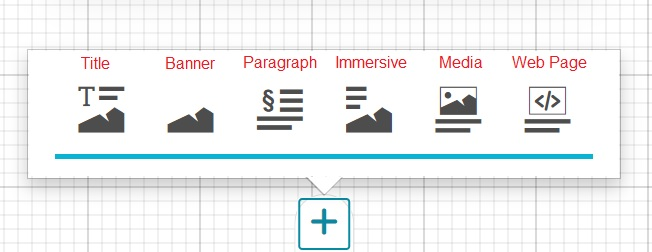
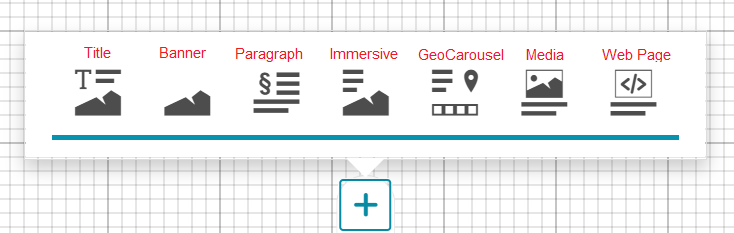
geocarousel-section

diff --git a/docs/user-guide/geocarousel-section.md b/docs/user-guide/geocarousel-section.md
@@ -1,0 +1,76 @@
+# GeoCarousel Section
+**********************
+
+The GeoCarousel section is similar to the [Immersive Section](immersive-section.md) and allows the story editor to define a list of cards to be presented with an accompanying descriptive content and a geographic location. Therefore, it is composed of three elements: the background  map, the media content and the carousel: a list of cards.
+
+<img src="../img/geocarousel-section/geocarousel-section-fd.jpg" class="ms-docimage"/>
+
+## Background
+
+Inside a GeoCarousel section the story editor can customize the background area through the background editing toolbar:
+
+<img src="../img/immersive-section/bck-toolbar.jpg" class="ms-docimage" width="550px"/>
+
+The background editing toolbar, when no map is applied, allows to:
+
+* Add a map as a background of the section, with the **Change media source** button <img src="../img/button/change-media.jpg" class="ms-docbutton"/> that opens the [Media Editor](media-editor-window.md)
+
+!!! warning
+    
+    In the *GeoCarousel Section* the story editor, unlike the [Immersive Section](immersive-section.md) and the [Title Section](title-section.md), can only add a **map** as a background.
+
+Once a *map* is added to the background, the editing toolbar appears in the upper left corner of the section allowing story editor to manage the background content.
+
+<img src="../img/geocarousel-section/geocarousel_background_toolbar.jpg" class="ms-docimage"/>
+
+The **Background editing toolbar** allows to:
+
+<img src="../img/geocarousel-section/geomap-toolbar.jpg" class="ms-docimage" style="width:300px"/>
+
+* **Change media source** <img src="../img/button/change-media.jpg" class="ms-docbutton"/> allows to select the media content to use for the section, clicking on this button the [Media Editor](media-editor-window.md) opens.
+
+* The **Edit map configuration** through which it is possible to [Configure the Map](configure-map.md)
+
+* **Change size** <img src="../img/button/change-size3.jpg" class="ms-docbutton"/> between *Small*, *Medium*, *Large* or *Full*
+
+* **Align content** <img src="../img/button/align3.jpg" class="ms-docbutton"/> on the *Left*, *Center* or *Right*
+
+* **Change the background theme** <img src="../img/button/change-field-theme.jpg" class="ms-docbutton"/> to set the colour of the empty background between *Default* (same default theme settings of the story, see [Story Settings](story-setting.md)), *Bright*, *Dark* or *Custom* (allows to customize the color of the background).
+
+!!! warning
+    The *Align content* and the *Change field theme* buttons are disabled if the map size is full screen.
+
+## Content
+
+The media content are allows describing, through *text*, *image*, *video* or *map*, the different cards present in the GeoCarousel section. The story editor can customize it through the **Immersive Content Toolbar**, as it is explained in the [Content section](immersive-section.md#content).
+
+<img src="../img/immersive-section/imm-content-toolbar.jpg" class="ms-docimage" style="width:400px"/>
+ 
+
+## Carousel
+
+The carousel is composed of a list of cards to be associated with a geographic location. By default, the carousel, located at the bottom of the GeoCarousel section, has the following empty card:
+
+<img src="../img/geocarousel-section/carousel.jpg" class="ms-docimage" style="width:500px"/>
+
+From each card, through the **Cards editing toolbar**, the story editor can perform the following operations:
+
+<img src="../img/geocarousel-section/items_toolbar.jpg" class="ms-docimage" style="width:180px"/>
+
+* **Edit** <img src="../img/button/edit-card-button.jpg" class="ms-docbutton"/> the card: clicking on this button the **Edit Card** panel opens allows adding *Thumbnail* and *Title*. An example can be the following: 
+
+<img src="../img/geocarousel-section/edit_card_panel.jpg" class="ms-docimage" style="width:500px"/>
+
+* **Delete** <img src="../img/button/delete_white_button.jpg" class="ms-docbutton"/> the card 
+
+* **Add marker** <img src="../img/button/add_marker_button.jpg" class="ms-docbutton"/> on map: clicking on this button the **Map Inline Editor** opens, and the story editor can click a point on map to add a new marker as follows:
+
+<img src="../img/geocarousel-section/add_marker.gif" class="ms-docimage"/>
+
+In the upper left corner of the carousel there is a **Carousel toolbar** allows to:
+
+<img src="../img/geocarousel-section/carousel_toolbar.jpg" class="ms-docimage" style="width:500px"/>
+
+* **Add card** <img src="../img/button/++.jpg" class="ms-docbutton"/> to the carousel
+
+* **Remove** <img src="../img/button/delete_white_button.jpg" class="ms-docbutton"/> the *GeoCarousel Section*

diff --git a/docs/user-guide/exploring-stories.md b/docs/user-guide/exploring-stories.md
@@ -25,6 +25,7 @@ The Story content is organized in Sections, that can be added with the <img src=
 * [Banner Section](banner-section.md)
 * [Paragraph Section](paragraph-section.md)
 * [Immersive Section](immersive-section.md)
+* [GeoCarousel Section](geocarousel-section.md)
 * [Media Section](media-section.md)
 * [Web Page Section](web-section.md)
 
